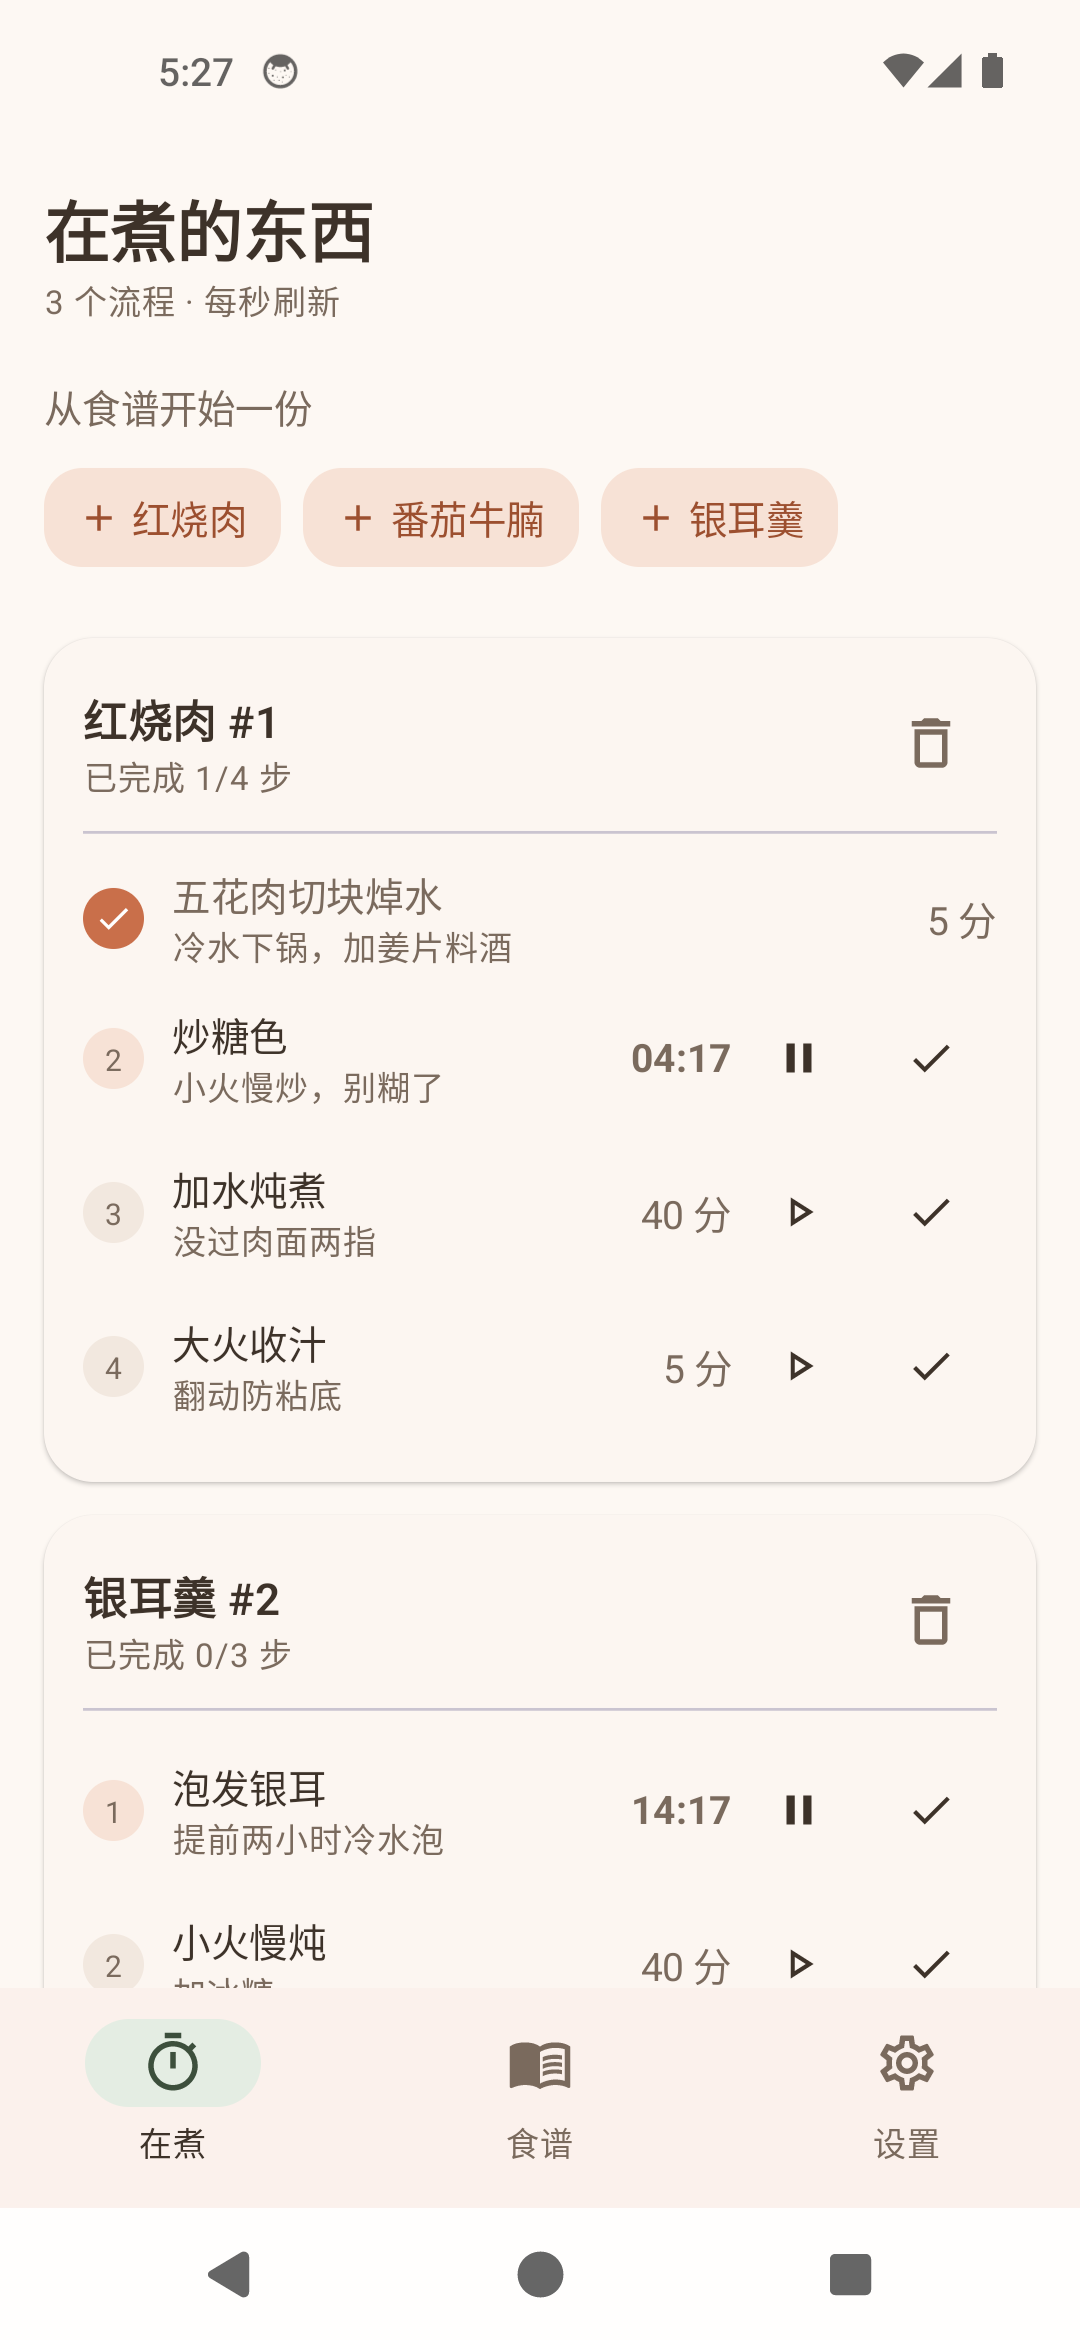
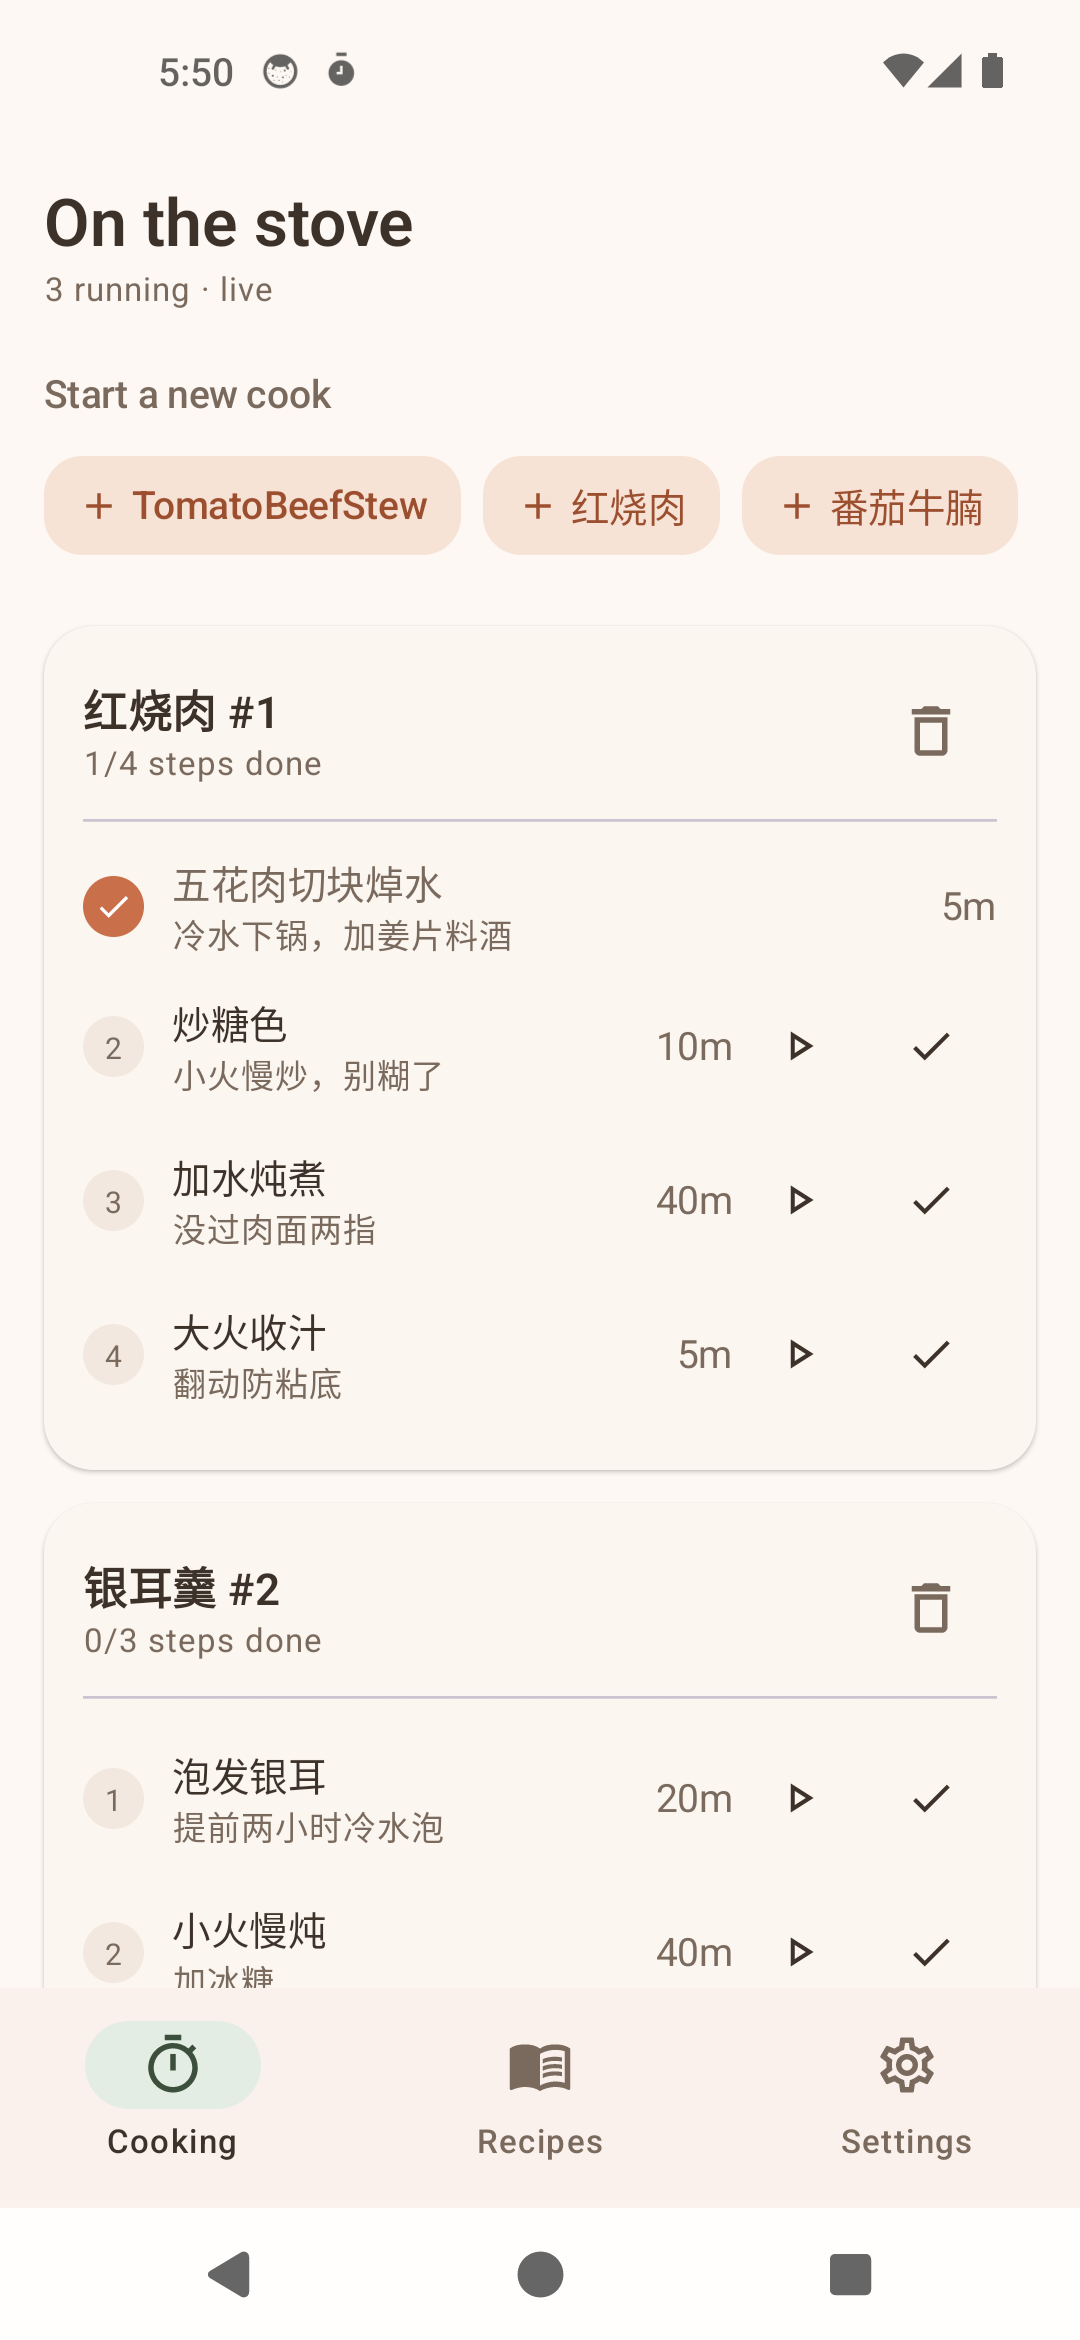
feat(1.0.1): +1 分钟、到点只提醒不改状态、通知权限申请

diff --git a/app/src/main/java/cn/levanll/stoveside/MainActivity.kt b/app/src/main/java/cn/levanll/stoveside/MainActivity.kt
@@ -1,23 +1,48 @@
 package cn.levanll.stoveside
 
+import android.Manifest
+import android.content.pm.PackageManager
+import android.os.Build
 import android.os.Bundle
 import androidx.activity.ComponentActivity
 import androidx.activity.compose.setContent
 import androidx.activity.enableEdgeToEdge
+import androidx.activity.result.contract.ActivityResultContracts
+import androidx.core.content.ContextCompat
 import androidx.lifecycle.viewmodel.compose.viewModel
+import cn.levanll.stoveside.service.Notifier
+import cn.levanll.stoveside.service.TimerService
 import cn.levanll.stoveside.ui.StoveViewModel
 import cn.levanll.stoveside.ui.screen.AppRoot
 import cn.levanll.stoveside.ui.theme.StoveTheme
 
 class MainActivity : ComponentActivity() {
+
+    private val requestNotifications =
+        registerForActivityResult(ActivityResultContracts.RequestPermission()) { /* 拒绝也不阻断计时 */ }
+
     override fun onCreate(savedInstanceState: Bundle?) {
         super.onCreate(savedInstanceState)
         enableEdgeToEdge()
+        Notifier.ensureChannels(this)
+        askNotificationPermission()
+        // 从后台回来时，若有进行中的计时，前台服务要接着跑
+        TimerService.start(this)
         setContent {
             StoveTheme {
                 val vm: StoveViewModel = viewModel()
                 AppRoot(vm = vm)
             }
         }
+    }
+
+    /** Android 13+ 必须显式申请，否则通知发不出去（A1 到期提醒的前提）。 */
+    private fun askNotificationPermission() {
+        if (Build.VERSION.SDK_INT < Build.VERSION_CODES.TIRAMISU) return
+        val granted = ContextCompat.checkSelfPermission(
+            this,
+            Manifest.permission.POST_NOTIFICATIONS,
+        ) == PackageManager.PERMISSION_GRANTED
+        if (!granted) requestNotifications.launch(Manifest.permission.POST_NOTIFICATIONS)
     }
 }

diff --git a/app/src/main/java/cn/levanll/stoveside/service/TimerService.kt b/app/src/main/java/cn/levanll/stoveside/service/TimerService.kt
@@ -28,7 +28,7 @@ class TimerService : Service() {
 
     private val scope = CoroutineScope(SupervisorJob() + Dispatchers.Default)
     private var job: Job? = null
-    private val notified = mutableSetOf<Long>()
+    private val notified = mutableSetOf<Pair<Long, Long?>>()
 
     override fun onBind(intent: Intent?): IBinder? = null
 
@@ -47,20 +47,18 @@ class TimerService : Service() {
         while (true) {
             val now = System.currentTimeMillis()
             val running = runCatching { repo.runningSteps() }.getOrDefault(emptyList())
-            val due = running.filter { it.dueAt != null && it.dueAt <= now && it.id !in notified }
+            // 到点只提醒，不改状态：改回 pending 会让用户丢掉"这锅还在跑"的事实，
+            // 也让「+1 分钟」无处可点。去重键用 stepId+dueAt，同一轮到期只响一次。
+            val due = running.filter { it.dueAt != null && it.dueAt <= now }
+                .filter { (it.id to it.dueAt) !in notified }
             for (step in due) {
-                notified += step.id
+                notified += step.id to step.dueAt
                 Notifier.due(
                     this,
                     (Notifier.ID_DUE_BASE + step.id).toInt(),
                     I18n.t("到点了", "Timer done"),
                     step.title,
                 )
-                runCatching {
-                    repo.updateCookStep(
-                        step.copy(status = "pending")
-                    )
-                }
             }
             val next = running.filter { it.dueAt != null }
                 .minByOrNull { it.dueAt!! }

diff --git a/app/src/main/java/cn/levanll/stoveside/ui/StoveViewModel.kt b/app/src/main/java/cn/levanll/stoveside/ui/StoveViewModel.kt
@@ -11,6 +11,7 @@ import cn.levanll.stoveside.data.entity.Recipe
 import cn.levanll.stoveside.data.entity.Step
 import cn.levanll.stoveside.domain.RecipeParser
 import cn.levanll.stoveside.i18n.I18n
+import cn.levanll.stoveside.service.TimerService
 import kotlinx.coroutines.Dispatchers
 import kotlinx.coroutines.delay
 import kotlinx.coroutines.flow.MutableStateFlow
@@ -159,6 +160,7 @@ class StoveViewModel(app: Application) : AndroidViewModel(app) {
         list.getOrNull(idx + 1)?.let { next ->
             if (next.status == "pending") list[idx + 1] = activate(next, now)
         }
+        TimerService.start(getApplication())
         repo.updateCookSteps(list)
         val allDone = list.all { it.status == "done" || it.status == "skipped" }
         if (allDone) {
@@ -168,6 +170,7 @@ class StoveViewModel(app: Application) : AndroidViewModel(app) {
 
     fun startStep(step: CookStep) = launchAction {
         repo.updateCookStep(activate(step, System.currentTimeMillis()))
+        TimerService.start(getApplication())
     }
 
     fun pauseStep(step: CookStep) = launchAction {

diff --git a/app/src/main/java/cn/levanll/stoveside/ui/screen/CooksScreen.kt b/app/src/main/java/cn/levanll/stoveside/ui/screen/CooksScreen.kt
@@ -30,6 +30,7 @@ import androidx.compose.material3.Icon
 import androidx.compose.material3.IconButton
 import androidx.compose.material3.MaterialTheme
 import androidx.compose.material3.Text
+import androidx.compose.material3.TextButton
 import androidx.compose.runtime.Composable
 import androidx.compose.runtime.collectAsState
 import androidx.compose.runtime.getValue
@@ -229,6 +230,11 @@ private fun StepRow(vm: StoveViewModel, cook: CookView, sv: StepView) {
             )
         }
         if (!done) {
+            if (running) {
+                TextButton(onClick = { vm.addOneMinute(step) }, contentPadding = PaddingValues(horizontal = 6.dp)) {
+                    Text("+1'", style = MaterialTheme.typography.labelMedium)
+                }
+            }
             IconButton(onClick = { if (running) vm.pauseStep(step) else vm.startStep(step) }) {
                 Icon(
                     if (running) Icons.Outlined.Pause else Icons.Outlined.PlayArrow,
